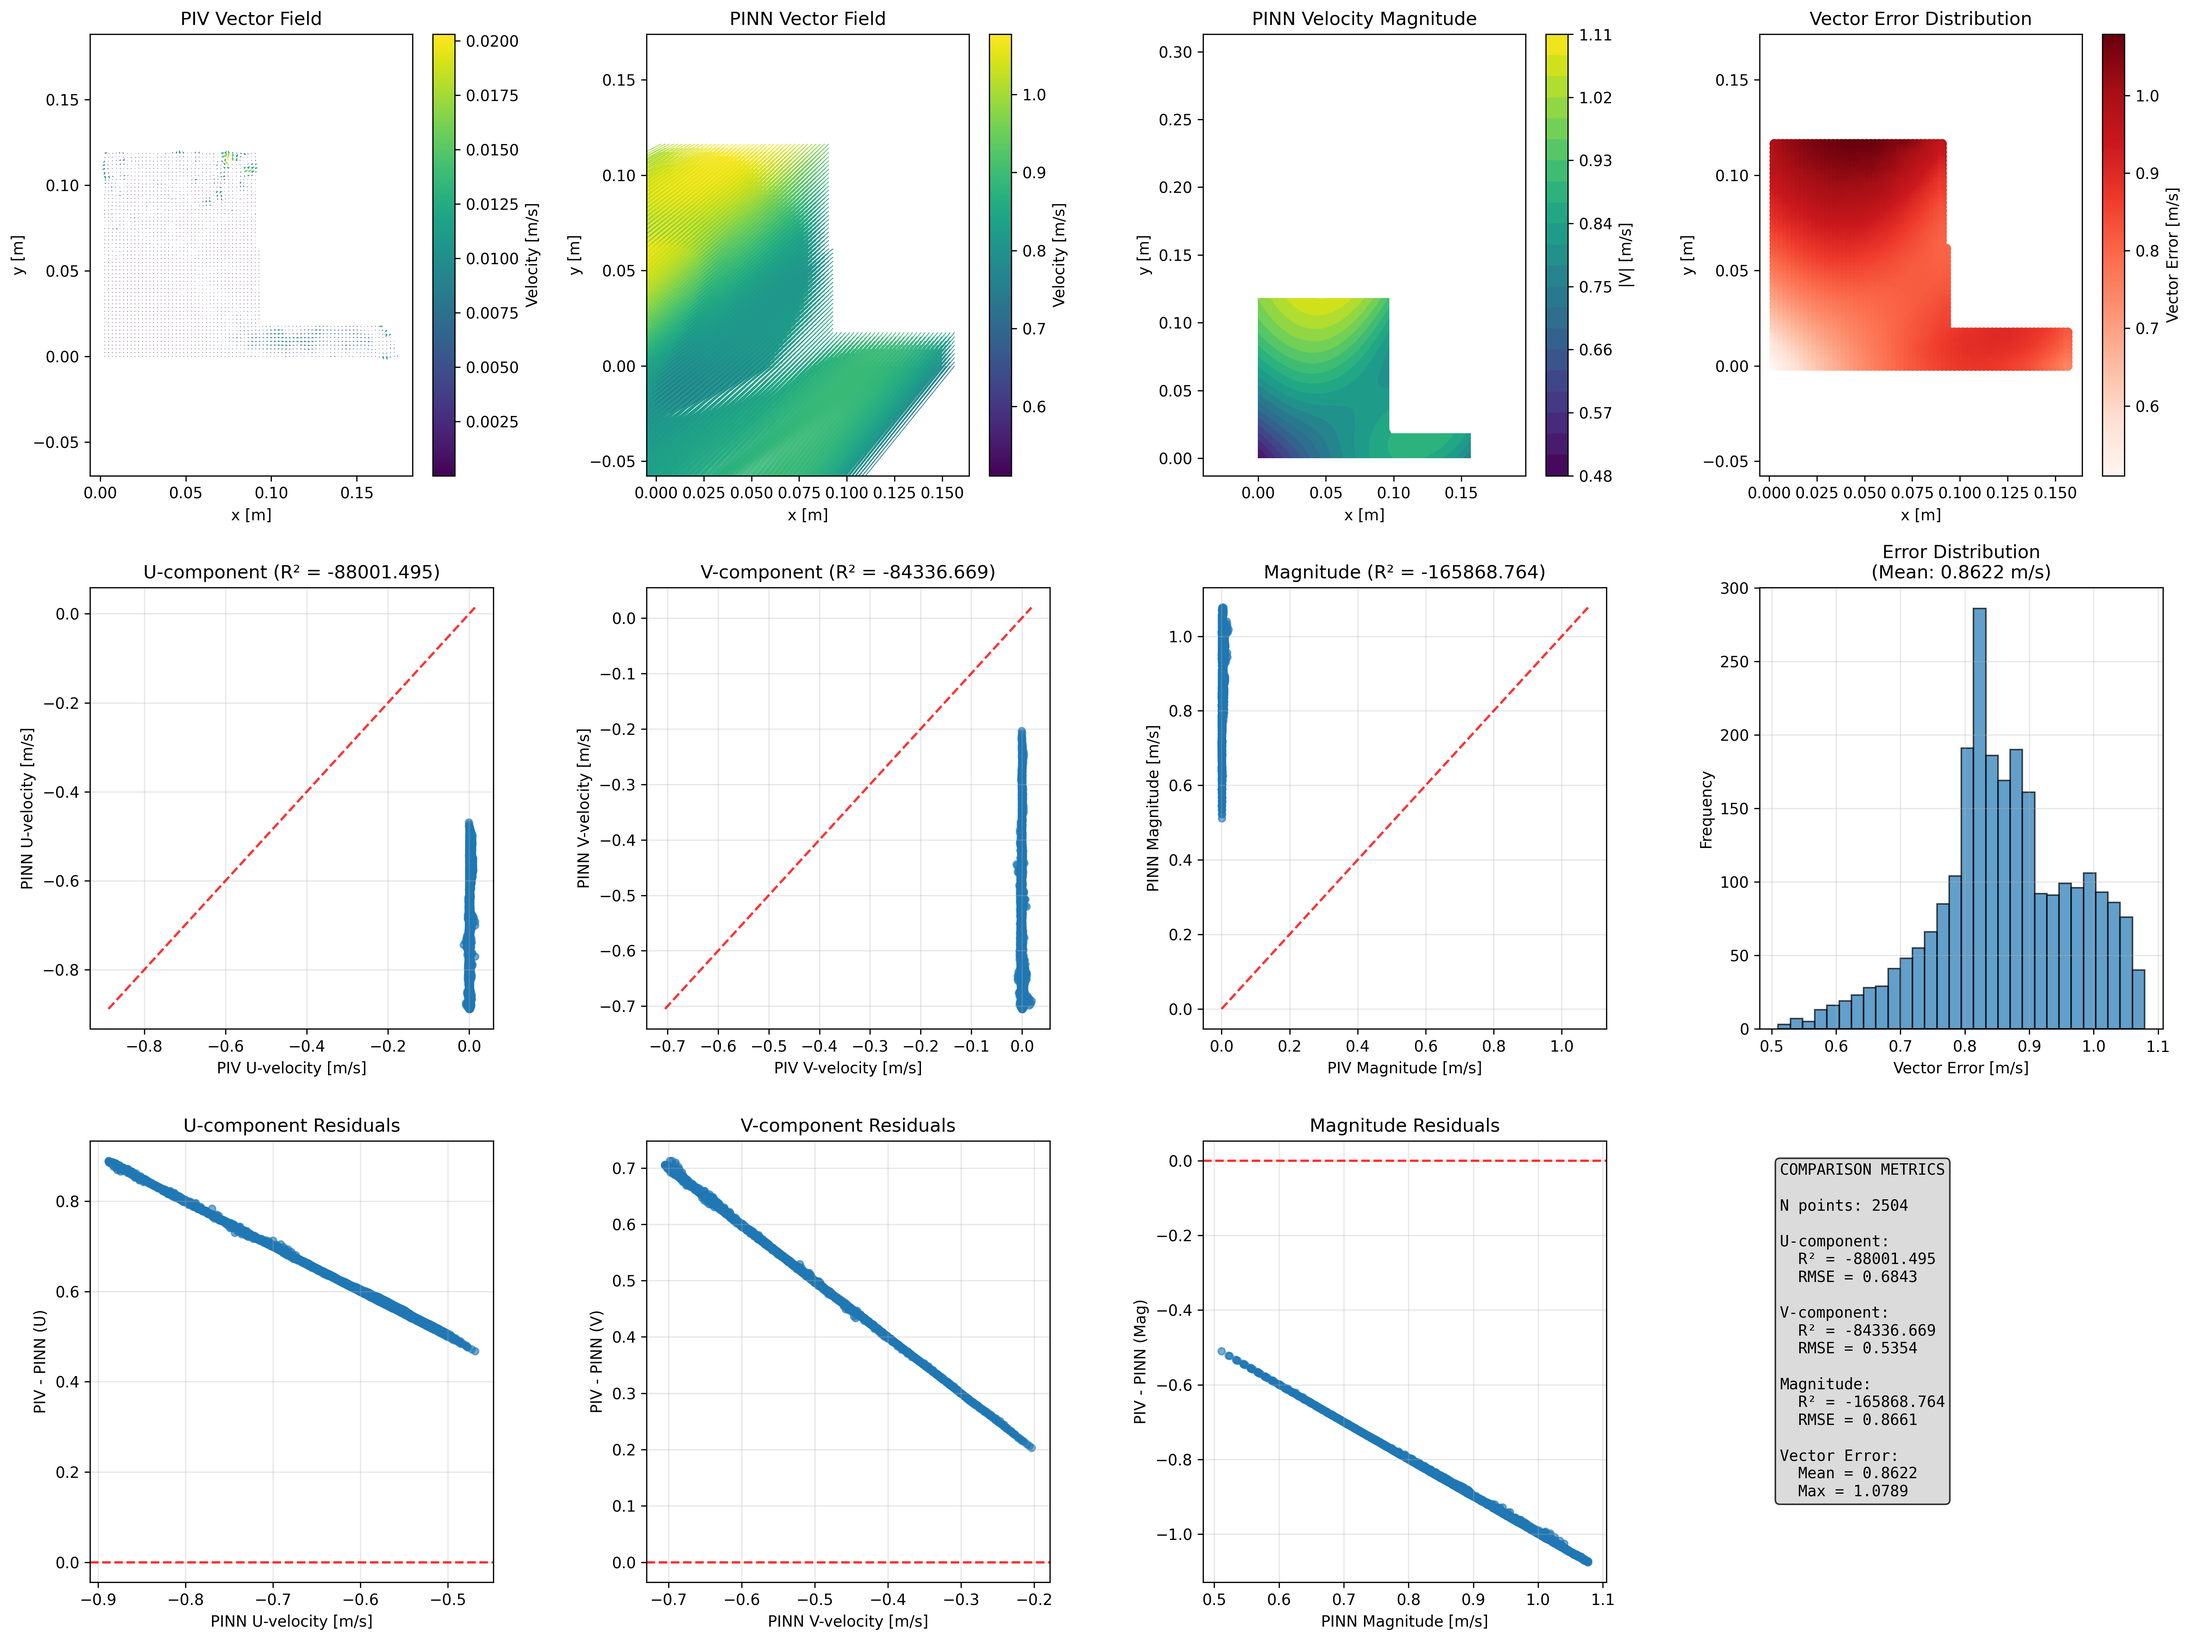
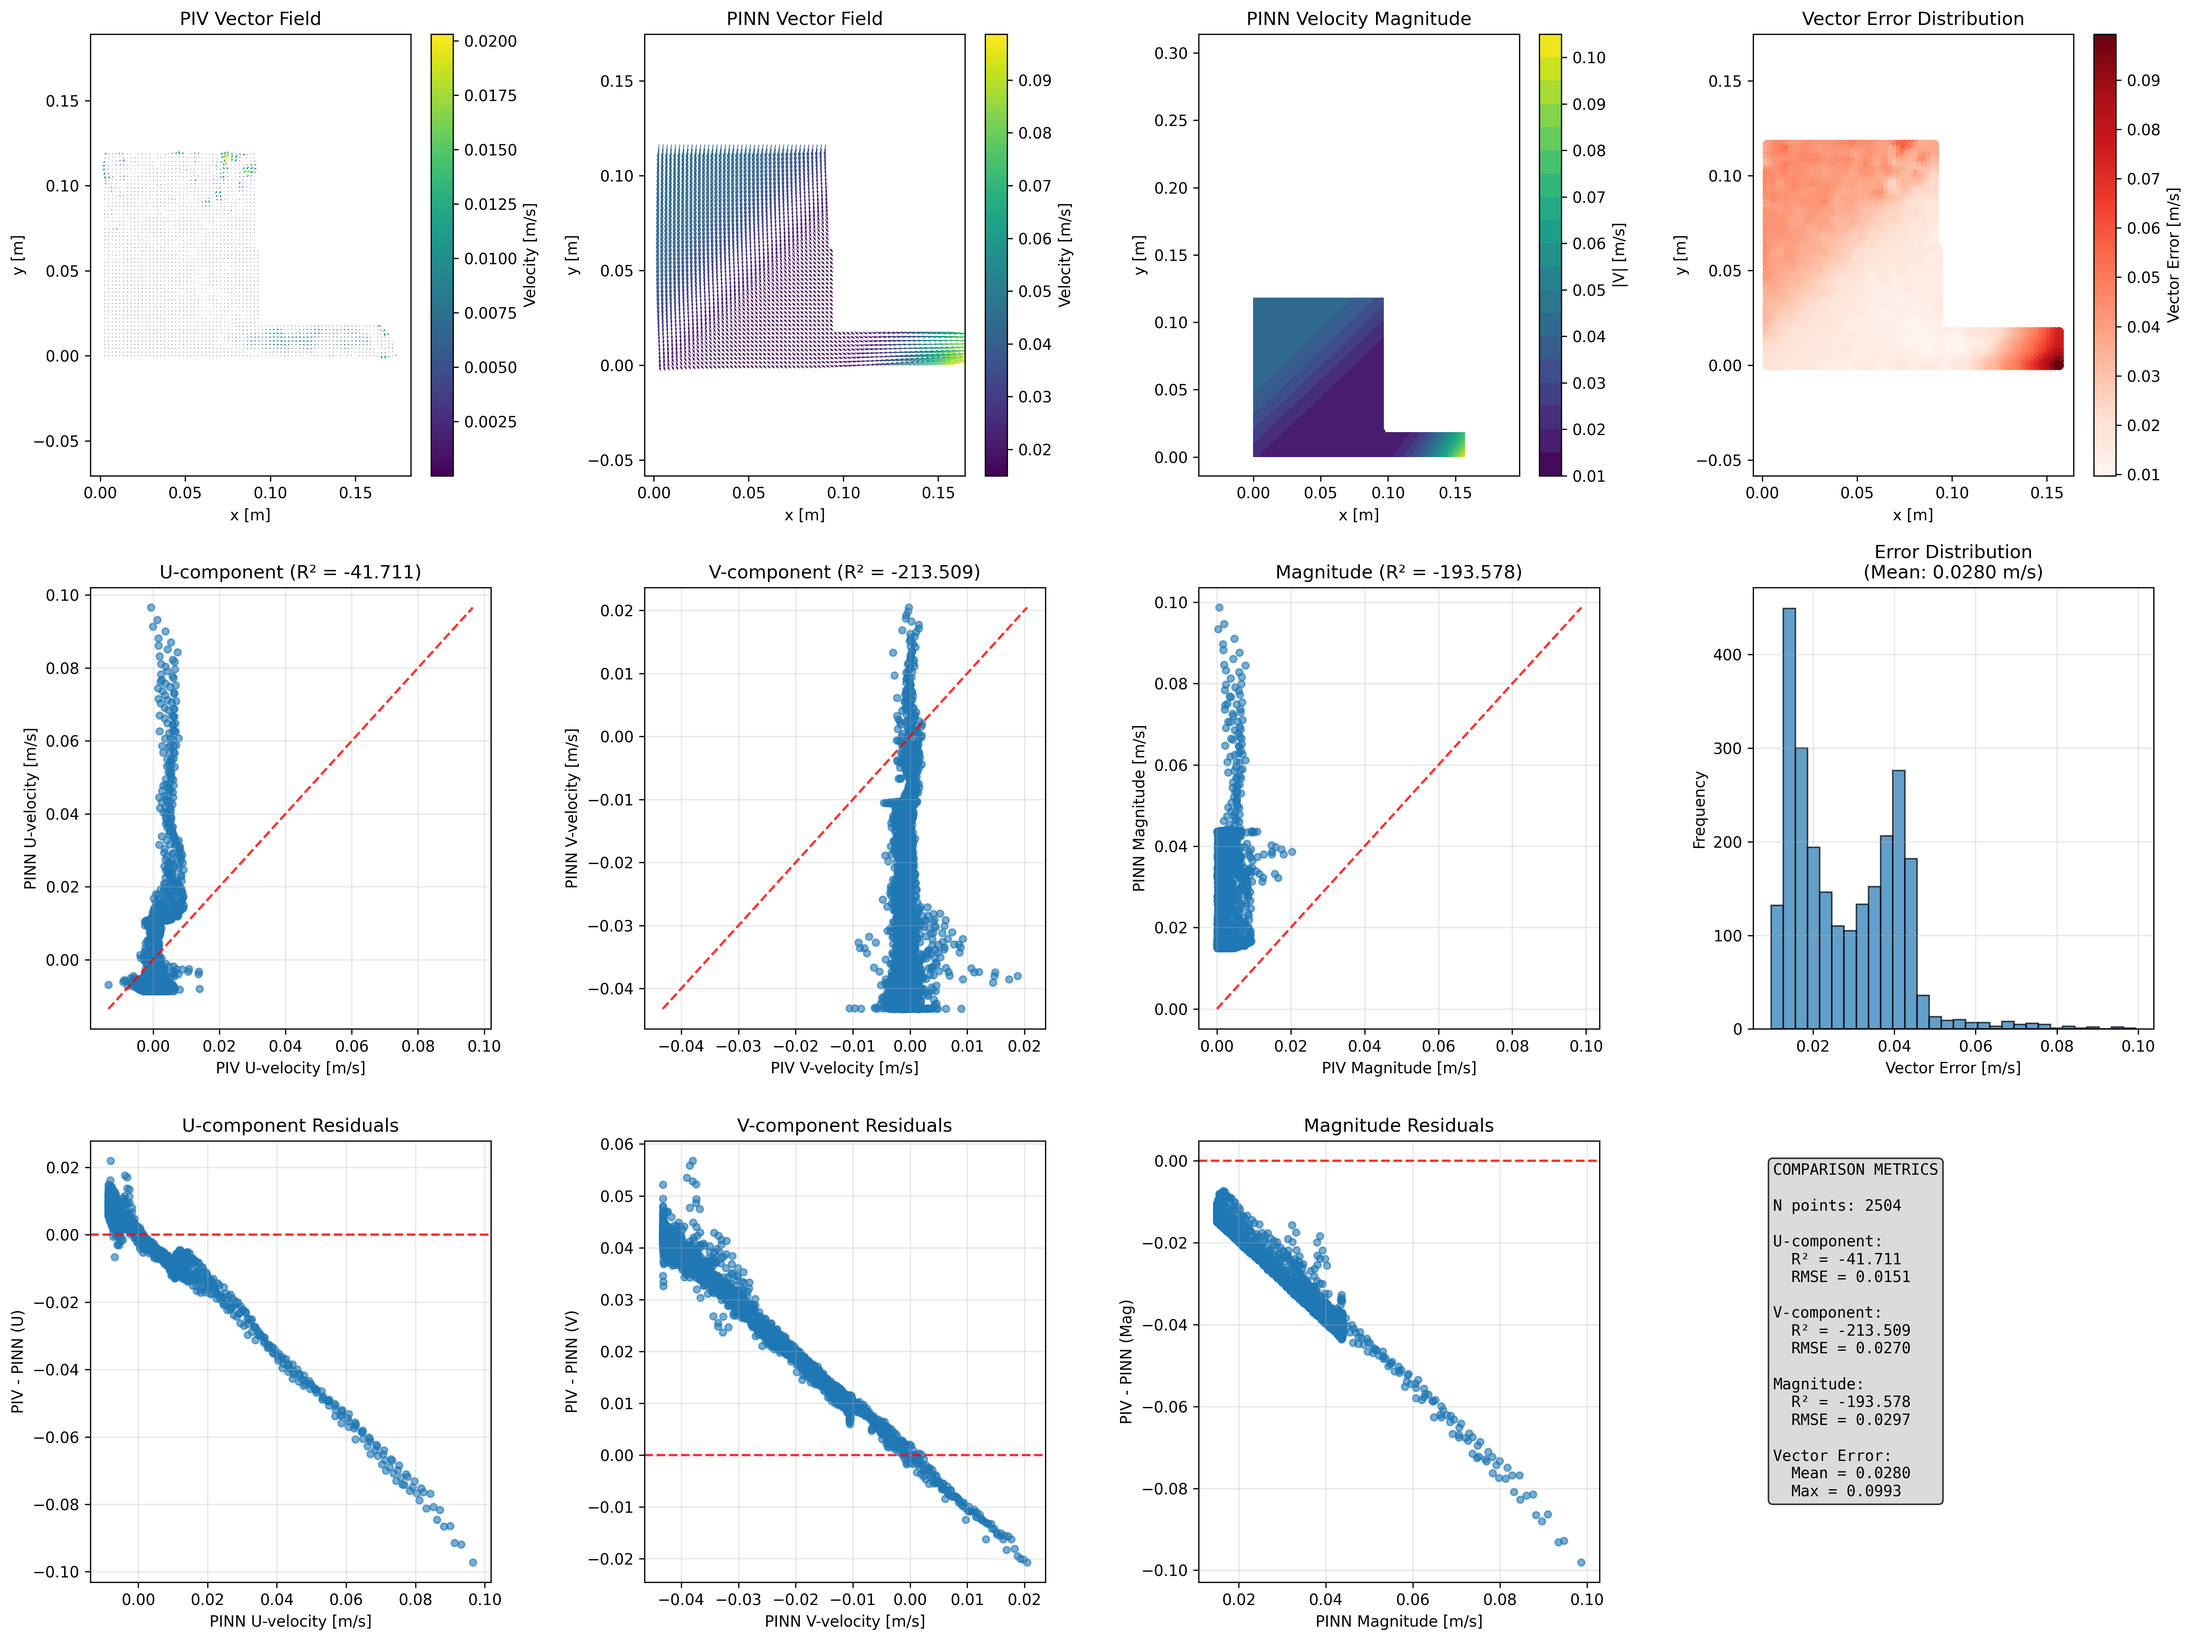
50% angle accuracy

diff --git a/Carbopol/visualization.py b/Carbopol/visualization.py
@@ -398,7 +398,7 @@ def visualize_results(model, domain_points, inside_L, wall_segments, inlet_point
         # Speed factor - adjust for faster/slower movement
         speed_factor = 0.01  # Reduced for smaller domain
         
-        # New positions for arrows
+        # New positions for arrows - initialize with same size as original
         new_x = []
         new_y = []
         new_u = []
@@ -441,6 +441,11 @@ def visualize_results(model, domain_points, inside_L, wall_segments, inlet_point
                             new_u.append(u_val / vel_mag)  # Normalized direction
                             new_v.append(v_val / vel_mag)  # Normalized direction
                             new_colors.append(vel_mag)
+                            # Update the original arrays
+                            arrows_x[i] = new_x_pos
+                            arrows_y[i] = new_y_pos
+                            arrows_u[i] = u_val / vel_mag
+                            arrows_v[i] = v_val / vel_mag
                             continue
             
             # If we reached here, either:
@@ -454,6 +459,7 @@ def visualize_results(model, domain_points, inside_L, wall_segments, inlet_point
             region = regions[reset_region]
             
             # Try to find a valid point in the chosen region
+            reset_x, reset_y = x, y  # Default to current position
             for _ in range(10):  # Try up to 10 times
                 reset_x = np.random.uniform(region["x_min"], region["x_max"])
                 reset_y = np.random.uniform(region["y_min"], region["y_max"])
@@ -482,12 +488,49 @@ def visualize_results(model, domain_points, inside_L, wall_segments, inlet_point
                         new_u.append(u_reset / vel_mag_reset)  # Normalized direction
                         new_v.append(v_reset / vel_mag_reset)  # Normalized direction
                         new_colors.append(vel_mag_reset)
+                        # Update the original arrays
+                        arrows_x[i] = reset_x
+                        arrows_y[i] = reset_y
+                        arrows_u[i] = u_reset / vel_mag_reset
+                        arrows_v[i] = v_reset / vel_mag_reset
+                    else:
+                        # Keep current position but with zero velocity
+                        new_x.append(x)
+                        new_y.append(y)
+                        new_u.append(0.0)
+                        new_v.append(0.0)
+                        new_colors.append(0.0)
+                        arrows_x[i] = x
+                        arrows_y[i] = y
+                        arrows_u[i] = 0.0
+                        arrows_v[i] = 0.0
+                else:
+                    # Keep current position but with zero velocity
+                    new_x.append(x)
+                    new_y.append(y)
+                    new_u.append(0.0)
+                    new_v.append(0.0)
+                    new_colors.append(0.0)
+                    arrows_x[i] = x
+                    arrows_y[i] = y
+                    arrows_u[i] = 0.0
+                    arrows_v[i] = 0.0
+            else:
+                # Keep current position but with zero velocity
+                new_x.append(x)
+                new_y.append(y)
+                new_u.append(0.0)
+                new_v.append(0.0)
+                new_colors.append(0.0)
+                arrows_x[i] = x
+                arrows_y[i] = y
+                arrows_u[i] = 0.0
+                arrows_v[i] = 0.0
         
-        # Update the arrow positions and directions
-        arrows_x[:] = new_x
-        arrows_y[:] = new_y
-        arrows_u[:] = new_u
-        arrows_v[:] = new_v
+        # Ensure we have exactly the same number of elements as the original quiver
+        assert len(new_x) == len(arrows_x), f"Size mismatch: {len(new_x)} != {len(arrows_x)}"
+        assert len(new_u) == len(arrows_x), f"Size mismatch: {len(new_u)} != {len(arrows_x)}"
+        assert len(new_v) == len(arrows_x), f"Size mismatch: {len(new_v)} != {len(arrows_x)}"
         
         # Update the quiver plot
         quiver.set_offsets(np.c_[new_x, new_y])

diff --git a/Carbopol/training.py b/Carbopol/training.py
@@ -208,6 +208,9 @@ def train_staged(model, optimizer, domain_points, inlet_points, outlet_points, w
     loss_history = []
     physics_loss_history = []
     bc_loss_history = []
+    rho = 0.101972  # Fluid density in kg/m^3 (adjust as needed)
+    g_x = 0.0
+    g_y = -9.81
     
     # Stage 1: Train with boundary conditions only
     print("Stage 1: Training with boundary conditions only (500 epochs)...")
@@ -290,8 +293,8 @@ def train_staged(model, optimizer, domain_points, inlet_points, outlet_points, w
             eta_eff = (tau_y / (shear_rate + 1e-6)) + k * (shear_rate ** (n - 1))
 
             continuity = u_x + v_y
-            f_x = p_x - (eta_eff * u_x + eta_eff * u_y)
-            f_y = p_y - (eta_eff * v_x + eta_eff * v_y)
+            f_x = p_x - (eta_eff * u_x + eta_eff * u_y) + rho * g_x
+            f_y = p_y - (eta_eff * v_x + eta_eff * v_y) + rho * g_y
 
             physics_loss = torch.mean(continuity**2) + torch.mean(f_x**2 + f_y**2)
         
@@ -364,8 +367,8 @@ def train_staged(model, optimizer, domain_points, inlet_points, outlet_points, w
             eta_eff = (tau_y / (shear_rate + 1e-6)) + k * (shear_rate ** (n - 1))
 
             continuity = u_x + v_y
-            f_x = p_x - (eta_eff * u_x + eta_eff * u_y)
-            f_y = p_y - (eta_eff * v_x + eta_eff * v_y)
+            f_x = p_x - (eta_eff * u_x + eta_eff * u_y) + rho * g_x
+            f_y = p_y - (eta_eff * v_x + eta_eff * v_y) + rho * g_y
 
             physics_loss = torch.mean(continuity**2) + torch.mean(f_x**2 + f_y**2)
         

diff --git a/Carbopol/boundary_conditions.py b/Carbopol/boundary_conditions.py
@@ -28,7 +28,7 @@ def compute_momentum_bc(model, wall_points, wall_normals, restitution_coef=1.0, 
     
     # Calculate shear rate at the wall - adjusted for smaller domain
     # Assuming characteristic length scale of 0.005 m for boundary layer
-    boundary_layer_thickness = 0.005
+    boundary_layer_thickness = 0.01
     shear_rate = tangential_vel_mag / boundary_layer_thickness
     
     # Carbopol wall slip behavior with updated rheological parameters
